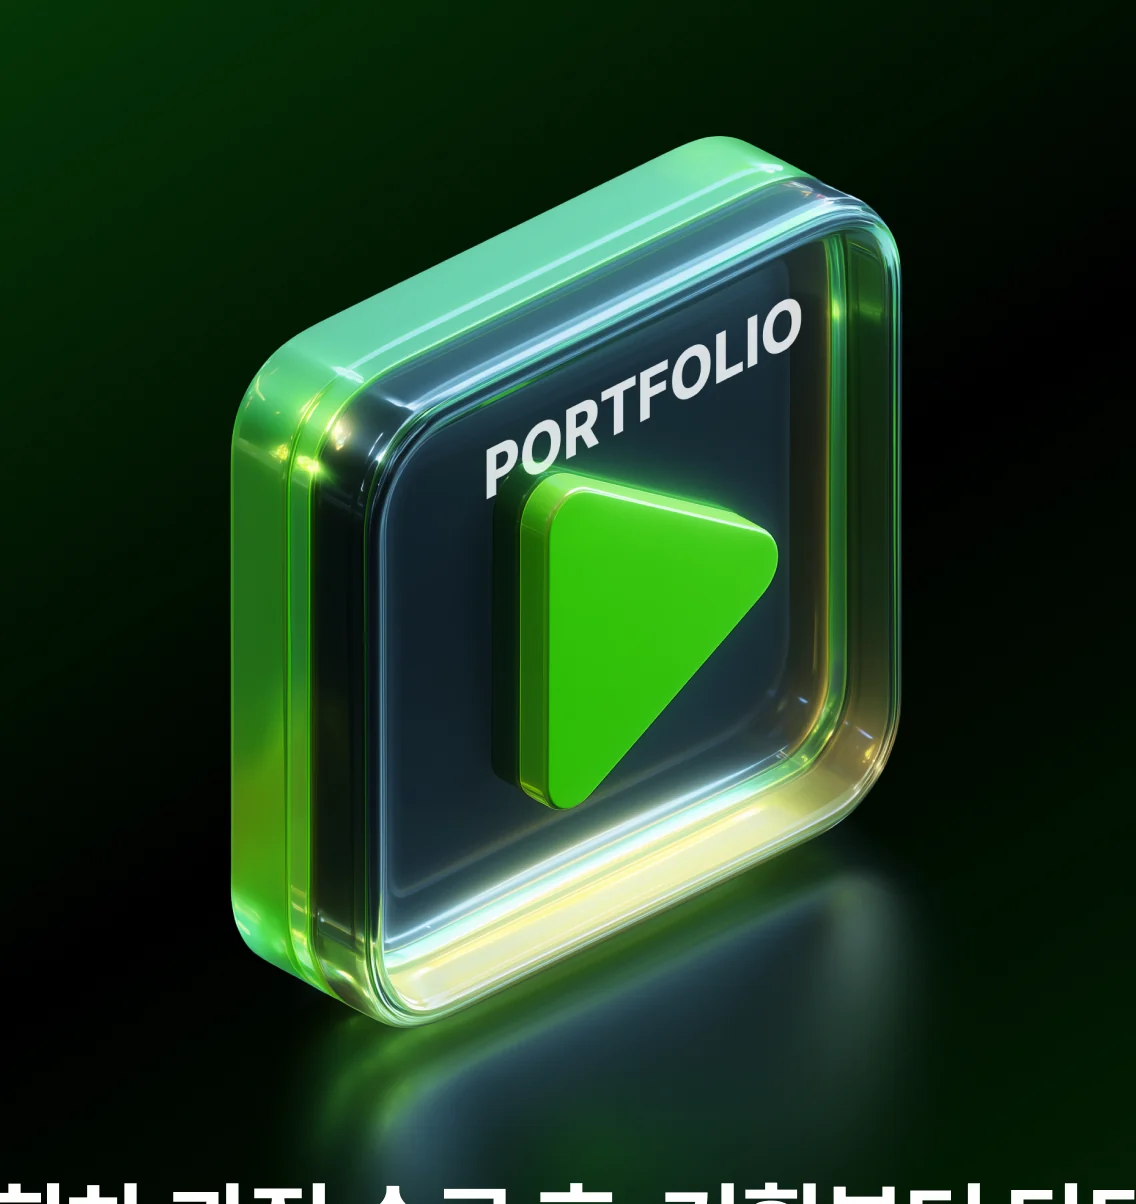
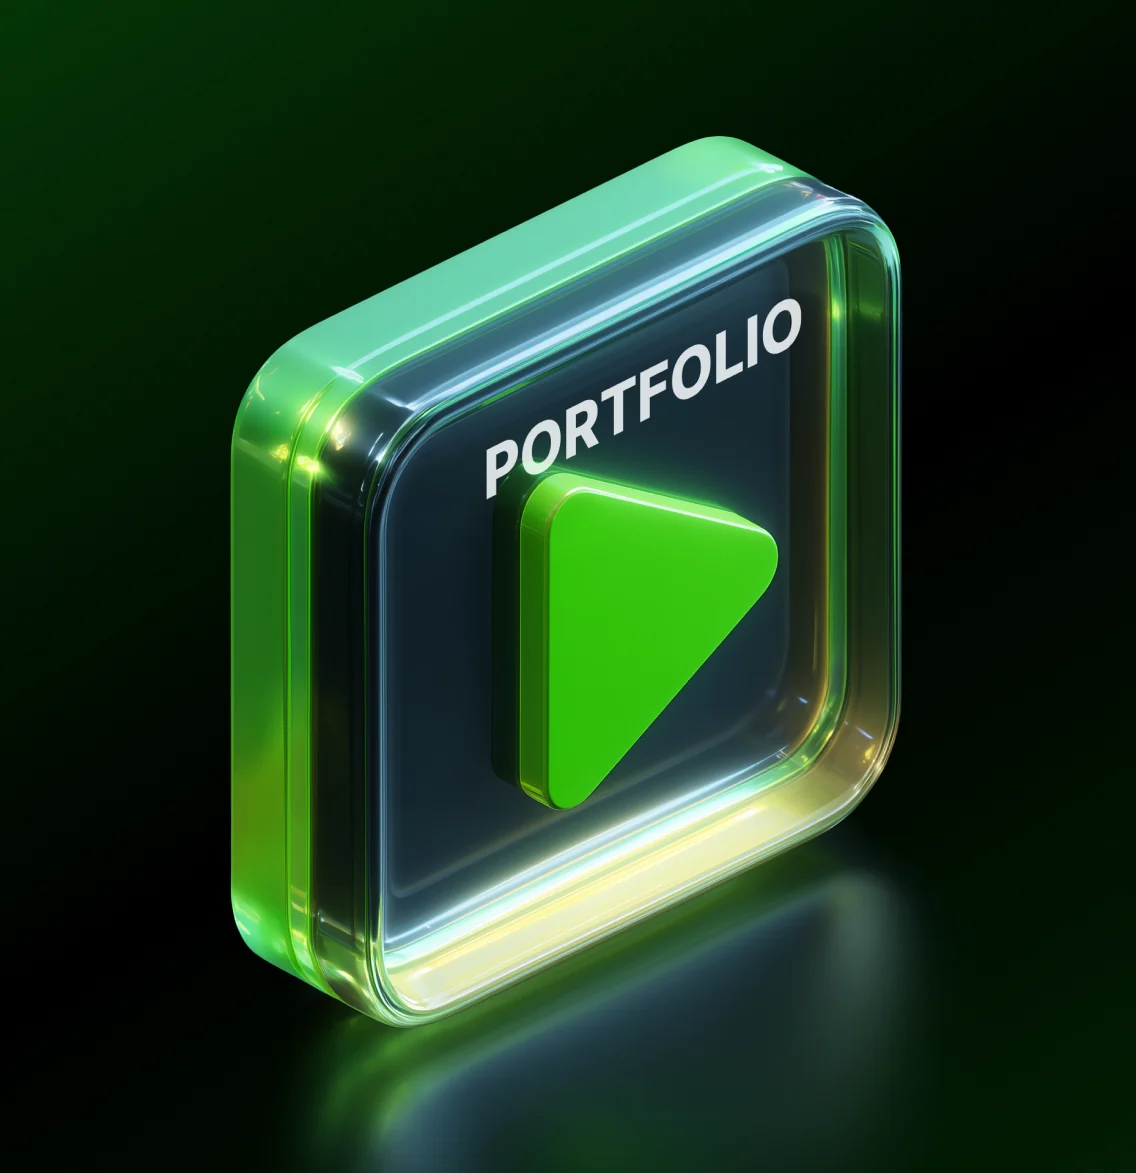
오프라인 수정 4건 (사용자 지적)
1. 포트폴리오 이미지 아래에 글자가 아직 물려 있었다
   글자 노드가 y15415.8 부터인데 크롭을 15427 까지 해서 윗부분 11px 가
   이미지에 남아 실제 텍스트와 겹쳤다. -> y15396 에서 끊었다.

2. ARRI 카메라 배경에 톤 단계(밴딩)가 보였다
   어두운 그라데이션 + JPEG 조합이 원인. 미세 노이즈로 계단을 깨고
   WebP 고품질(93)로 다시 구웠다. jpg 는 삭제.

3. 「영상 제작의 '첫 단추'를 꿰는 곳」에서 "곳"만 줄바꿈됐다
   -> white-space:nowrap.

4. 빨간 문구 「(5기 대상 수상작품도…)」가 본문 아래로 내려가 있었다
   본문 3번째 줄 뒤에 붙어야 한다. 본문 글자를 42->39 로 줄였으므로
   줄 위치도 13836 -> 13803 으로 다시 계산했다.

1920 가로넘침 0, 깨진 이미지 0.

diff --git a/offline.html b/offline.html
@@ -257,7 +257,7 @@
     </ul>
     <p class="p-def">이 모든 것에 대한 정밀한 계획을<br>수립하는 것을 바로 기획이라고 합니다.</p>
 
-    <img class="p-alexa" src="assets/img/offline/b2-alexa.jpg" width="1920" height="830" loading="lazy"
+    <img class="p-alexa" src="assets/img/offline/b2-alexa.webp" width="1920" height="830" loading="lazy"
          alt="ARRI ALEXA 시네마 카메라 — FVA 촬영 실습 장비">
     <p class="p-ask2">&ldquo;당신이 만들고 싶은건 누구나<br>만들 수 있는 평범한 영상인가요,</p>
     <img class="p-col1" src="assets/img/offline/b2-collage1.jpg" width="1920" height="2043" loading="lazy"
@@ -545,7 +545,7 @@
 
     <!-- 포트폴리오 카드 + 클래스 특징 (블록5 y14125~17050) -->
     <span class="pf-card" aria-hidden="true"></span>
-    <span class="pf-img"><img src="assets/img/offline/b5-portfolio.webp" width="1136" height="1204"
+    <span class="pf-img"><img src="assets/img/offline/b5-portfolio.webp" width="1136" height="1173"
       loading="lazy" alt="FVA 수강생이 12회차 과정에서 완성한 포트폴리오 작품 모음"></span>
     <p class="pf-txt">12회차 과정 수료 후, 기획부터 탄탄한<br><em>완성도 높은 포트폴리오 작품</em>을 얻어가실 수 있습니다.</p>
     <p class="pf-note">*12회차 과정동안 최대 작품 3개까지 진행한 팀도 있었어요!</p>

diff --git a/css/offline-plan.css b/css/offline-plan.css
@@ -64,7 +64,7 @@
 .off-plan .p-n2{ left:calc(95.8/1920 * 100%);top:calc(13277.3/16715.2 * 100%);width:calc(225.7/1920 * 100%) }
 .off-plan .p-t2{ left:calc(423.7/1920 * 100%);top:calc(13363.5/16715.2 * 100%);width:calc(1431.1/1920 * 100%);font-size:calc(var(--u) * 100/1920);line-height:1.20;color:#fff;text-align:left }
 .off-plan .p-b2{ left:calc(425.4/1920 * 100%);top:calc(13669.6/16715.2 * 100%);width:calc(1494/1920 * 100%);font-size:calc(var(--u) * 39/1920);line-height:1.674;color:#fff;text-align:left;font-weight:500 }
-.off-plan .p-note2{ left:calc(1012/1920 * 100%);top:calc(13836/16715.2 * 100%);width:calc(774.7/1920 * 100%);font-size:calc(var(--u) * 37/1920);line-height:1;color:#FF3D00;text-align:left }
+.off-plan .p-note2{ left:calc(1012/1920 * 100%);top:calc(13803/16715.2 * 100%);width:calc(774.7/1920 * 100%);font-size:calc(var(--u) * 37/1920);line-height:1.764;color:#FF3D00;text-align:left }
 .off-plan .p-f3{ left:calc(0.0/1920 * 100%);top:calc(14174.0/16715.2 * 100%);width:calc(1920.0/1920 * 100%) }
 .off-plan .p-n3{ left:calc(95.8/1920 * 100%);top:calc(15014.9/16715.2 * 100%);width:calc(225.7/1920 * 100%) }
 .off-plan .p-t3{ left:calc(423.7/1920 * 100%);top:calc(15103.4/16715.2 * 100%);width:calc(1382.0/1920 * 100%);font-size:calc(var(--u) * 100/1920);line-height:1.20;color:#fff;text-align:left }

diff --git a/css/offline-blocks.css b/css/offline-blocks.css
@@ -778,7 +778,7 @@
                      box-shadow:0 0 calc(var(--u)*90/1920) rgba(44,255,5,.18) inset;
                      z-index:2 }
 .off-story .pf-img{ left:calc(392.9/1920 * 100%); top:calc(14223.6/var(--H) * 100%);
-                    width:calc(1134.1/1920 * 100%); height:calc(1204/var(--H) * 100%); z-index:3 }
+                    width:calc(1134.1/1920 * 100%); height:calc(1173/var(--H) * 100%); z-index:3 }
 .off-story .pf-img img{ height:100%;object-fit:cover;border-radius:calc(var(--u) * 24/1920) }
 .off-story .pf-txt{ left:calc(274.6/1920 * 100%); top:calc(15415.8/var(--H) * 100%);
                     width:calc(1372/1920 * 100%); z-index:3; text-align:center;

diff --git a/css/offline.css b/css/offline.css
@@ -222,7 +222,8 @@ svg.club-wordmark{
 .club-title .ct2{ left:calc(113.9/1920 * 100%); top:calc(1251.0/4248.56 * 100%); width:calc(1705.5/1920 * 100%) }
 
 /* ── 수강생 만족도 100% + 서브 ── */
-.club-satis,.club-first{ line-height:0 }
+.club-satis,.club-first{ line-height:0   white-space:nowrap;
+}
 .club-satis img,.club-first img{ position:absolute;z-index:2;height:auto }
 .club-satis .cs-icon{ left:calc(149.6/1920 * 100%); top:calc(1926.5/4248.56 * 100%); width:calc(134/1920 * 100%) }
 .club-satis .cs-glow{ left:calc(254.1/1920 * 100%);  top:calc(1893.0/4248.56 * 100%); width:calc(1511.5/1920 * 100%); z-index:1 }
